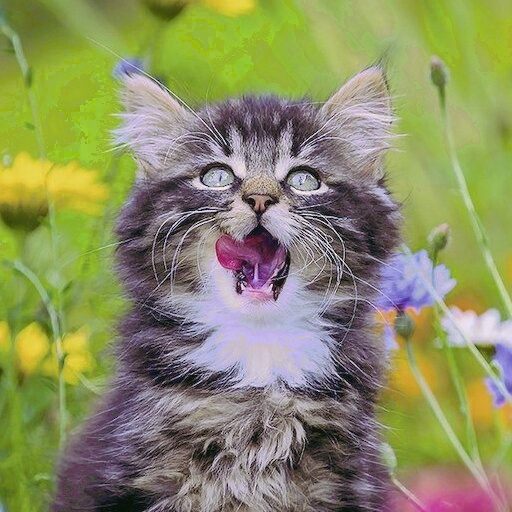
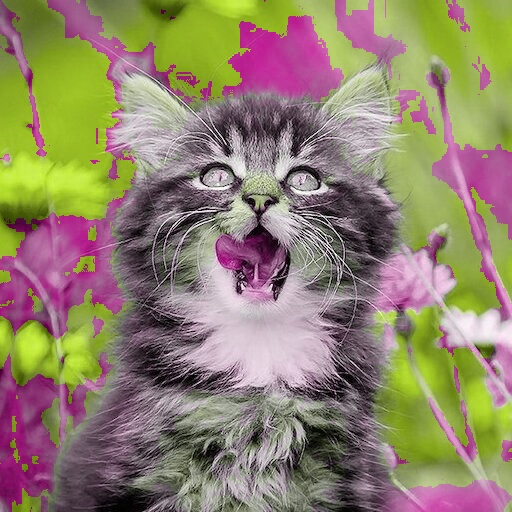
Couleur complémentaire en HSV fonctionnelle

diff --git a/Sources/complementaire.py b/Sources/complementaire.py
@@ -5,80 +5,44 @@ from imgTools import *
 
 
 #trouve la meilleurs harmonisation et effectue la modification de l'image
-def findBestHarmonieCompl(histo, img, verbose = True):
+def findBestHarmonieCompl(histoHSV, imgHSV, verbose = True):
     #le mode correspond a un p
     #mode = couleur, occurance 
     mode = (0,0)
-
     ite = 0
-    for key, value in histo.items():
+    for key, value in histoHSV.items():
         ite+=1
-        color = list(key)
+        color = key #teinte de la couleur
       #  print(color)
         #calcul de la couleur complémentaire
-        colorCompl = [abs(255-color[0]),abs(255-color[1]),abs(255-color[2])]
-                
+        colorCompl = 255-color
         #on prend en compte aussi les voisines
-        somme =sommeVoisine(histo,color) + sommeVoisine(histo, colorCompl)
+        #somme =sommeVoisine(histoHSV,color) + sommeVoisine(histoHSV, colorCompl)
+        somme = sommeVoisinHSV(histoHSV, color)+ sommeVoisinHSV(histoHSV, colorCompl)
 
         if somme > mode[1]:
             mode = (color, somme)
         if verbose:
-            verbosePourcent(ite, len(histo))
-       # print("de la recherche de la meilleurs harmonie")
-    modeCompl = [abs(255-mode[0][0]),abs(255-mode[0][1]),abs(255-mode[0][2])]
+            verbosePourcent(ite, len(histoHSV))
+
+    modeCompl =  255-color
 
     print("couleur :        ", mode[0])
     print("complémentaire : ", modeCompl)
-    print("nbOcc : ", mode[1])    
+    print("nbOcc : ", mode[1])
     #on harmonise les couleur de l'image
-    for i in range(0,img.shape[0]):
-        for j in range(0,img.shape[1]):
+    for i in range(0,imgHSV.shape[0]):
+        for j in range(0,imgHSV.shape[1]):
             #calcul de la distance entre le mode et le complémentaire
-            #on modifie les pixel courant
-
-        
-            distColor = distance(mode[0], img[i,j])
-            distCompl = distance(modeCompl, img[i,j])
+            #on modifie les pixel courant        
+            distColor = abs(mode[0]-imgHSV[i,j][0])# distanceComp(mode[0], img[i,j],0)
+            distCompl = abs(modeCompl-imgHSV[i,j][0]) #distanceComp(modeCompl, img[i,j],0)
             if distColor < distCompl:
-                color = mode[0]
-                dist = distColor
+
+                imgHSV.itemset((i,j,0),mode[0])
             else:
-                color = modeCompl
-                dist = distCompl
-            
-            
-            for k in range(3):
-                """
-                distColor = distanceComp(mode[0], img[i,j],k)
-                distCompl = distanceComp(modeCompl, img[i,j],k)
-                if distColor < distCompl:
-                    color = mode[0]
-                    #dist = distColor
-                else:
-                    color = modeCompl
-                    #dist = distCompl 
-                """
-                dist = distanceComp(color, img[i,j], k)
-                
-                    #plusieur choix de fonction possible ? sqrt ?
-                #formule =  min(math.exp(dist/15)-1,20)
-                #formule = math.sqrt(dist)
-                #formule = max(0,math.floor(25/(1+math.exp(-(dist-70)/8))-1 ))   #sigmoïde
-                #formule =  min(math.exp(dist/15)-1,2)
-                pivot =distanceComp(mode[0], modeCompl,k)/4
-                if dist<pivot:
-                    formule = dist/2
-                if(dist>pivot and not ifMilieux(img[i,j],mode[0],modeCompl,k)):
-                    formule = pivot/2
-                else:
-                    formule = (pivot/2)-dist/2
-                formule = min(60,max(0,math.floor(formule)))                
-                if color[k] > img[i,j][k]:
-          
-                    img.itemset((i,j,k), img.item(i,j,k)+formule)
-                else:
-                    img.itemset((i,j,k), img.item(i,j,k)-formule)
+
+                imgHSV.itemset((i,j,0),modeCompl)
             
 
 
@@ -90,16 +54,22 @@ def findBestHarmonieCompl(histo, img, verbose = True):
 
 filename = "cat3"
 img = cv2.imread ("../Images/Inputs/"+filename+".jpg")
-ImgIndex = cv2.cvtColor(img, cv2.COLOR_BGR2GRAY)
+#ImgIndex = cv2.cvtColor(img, cv2.COLOR_BGR2GRAY)
 
 
+histoHSV = getHistoHSV(img)
 
-histo = getHisto(img)
-            
 
-findBestHarmonieCompl(histo, img)
+hsvImage = cv2.cvtColor(img, cv2.COLOR_BGR2HSV)
+
+#print("couleur   : ",hsvImage[0,0])
+#print("couleur   : ",hsvImage[0,0])
+
+findBestHarmonieCompl(histoHSV, hsvImage)
 #findBestHarmonieTriad(histo, img)
 
+img = cv2.cvtColor(hsvImage, cv2.COLOR_HSV2BGR)
+cv2.imwrite("../Images/Outputs/"+filename+"_ComplHSV.jpg", hsvImage)
 cv2.imwrite("../Images/Outputs/"+filename+"_Compl.jpg", img)
 
 

diff --git a/Sources/imgTools.py b/Sources/imgTools.py
@@ -38,7 +38,7 @@ def distance(color, couleur):
                     pow(color[2] - couleur[2], 2));
     return dist
 def distanceComp(color, couleur, comp):
-    dist = abs(color[comp] - couleur[comp]);
+    dist = abs(color[comp] - couleur[comp])
     return dist
 
 def ifMilieux(isMid, color2, color3, k):
@@ -59,6 +59,23 @@ def getHisto(img):
                 histo[tuple(pixel)] = 1
     return histo
 
+def getHistoHSV(img):
+    histo = {}
+    hsvImage = cv2.cvtColor(img, cv2.COLOR_BGR2HSV)
+    for i in range(0,hsvImage.shape[0]):
+        for j in range(0,hsvImage.shape[1]):
+            pixel = hsvImage[i,j]
+            if pixel[0] in histo.keys():
+                histo[pixel[0]] = histo[pixel[0]]+ 1
+            else:
+                histo[pixel[0]] = 1
+    return histo
+
+def sommeVoisinHSV(histoHSV, teinte):
+    somme = 0;
+    if teinte in histoHSV.keys():
+        somme = somme + histoHSV[teinte]
+    return somme;
 
 
 
